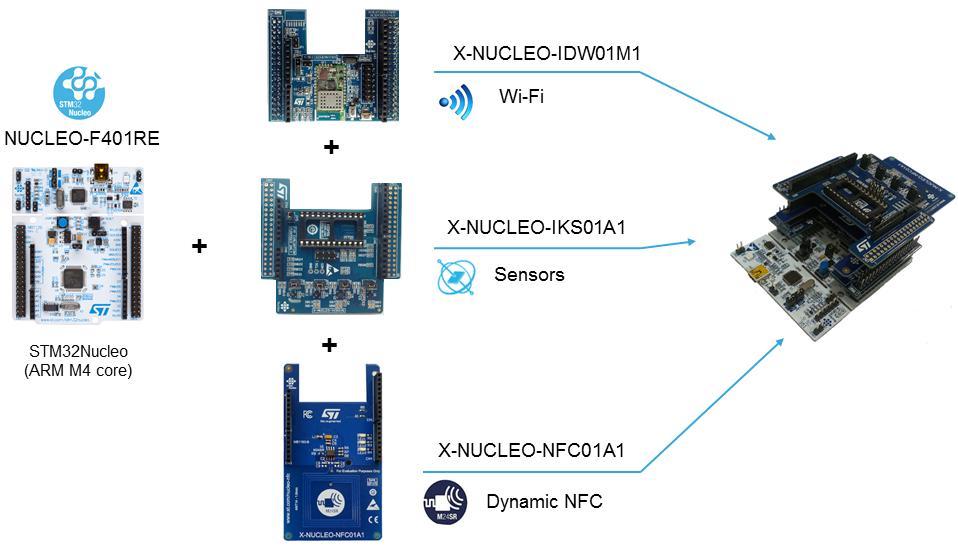
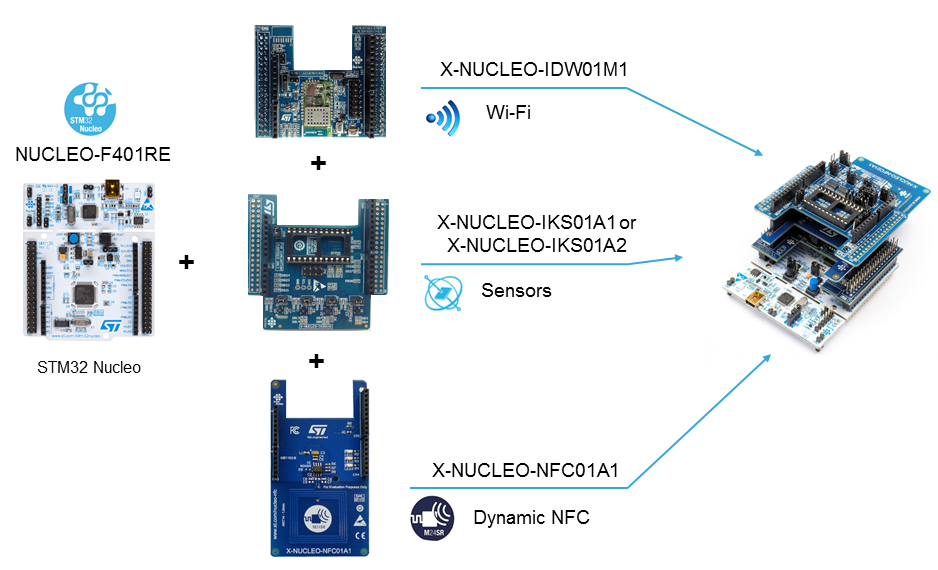
Updated get started for STM32 Nucleo
Updated stm32cube-stm32nucleo-c.md according to latest FW version
available on st.com.

diff --git a/get_started/stm32cube-stm32nucleo-c.md b/get_started/stm32cube-stm32nucleo-c.md
@@ -16,7 +16,6 @@ Run a simple C sample on STM32 Nucleo
 -   [Step 1: Prerequisites](#Prerequisites)
 -   [Step 2: Prepare your Device](#PrepareDevice)
 -   [Step 3: Build and Run the Sample](#Build)
--   [Tips](#tips)
 
 
 <a name="Introduction"></a>
@@ -28,6 +27,7 @@ This document describes how to connect STM32 Nucleo based sensor node to the Mic
 -   Configuring Azure IoT Hub
 -   Registering STM32 Nucleo to Azure IoT Hub
 -   Build and deploy Azure IoT SDK on STM32 Nucleo
+ 
 
 <a name="Prerequisites"></a>
 # Step 1: Prerequisites
@@ -46,18 +46,17 @@ You should have the following items ready before beginning the process.
 ## 1.2 Hardware components
  - STM32 Nucleo development board ([NUCLEO-F401RE][lnk-nucleo-f4])
  - Wi-Fi expansion board for STM32 Nucleo ([X-NUCLEO-IDW01M1][lnk-nucleo-wifi])
- - Motion MEMS and environmental sensor expansion board for STM32 Nucleo ([X-NUCLEO-IKS01A1][lnk-nucleo-sensors])
- - Dynamic NFC tag expansion board for STM32 Nucleo ([X-NUCLEO-NFC01A1][lnk-nucleo-nfc]) 
- - NFC enabled Android phone to set SSID and Password of WiFi access point through a mobile application.
+ - Motion MEMS and environmental sensor expansion board for STM32 Nucleo ([X-NUCLEO-IKS01A1][lnk-nucleo-sensors] or [X-NUCLEO-IKS01A2][lnk-nucleo-sensors2]).
+ - Dynamic NFC tag expansion board for STM32 Nucleo (optional, [X-NUCLEO-NFC01A1][lnk-nucleo-nfc]) 
+ - When the X-NUCLEO-NFC01A1 board is mounted, an NFC enabled Android phone is necessary to set WiFi SSID and Password with a mobile application.
  
 
 <a name="PrepareDevice"></a>
 # Step 2: Prepare your Device
-Combine STM32 Nucleo with its expansion boards as shown in the figure below:
+Combine STM32 Nucleo with expansion boards as shown in the figure below. Then connect the STM32 Nucleo board to your PC using a mini USB cable.
 
 ![][1]
-
-Connect the STM32 Nucleo based sensor node to your PC using a mini USB cable. 
+ 
 
 <a name="Build"></a>
 # Step 3: Build and Run the sample 
@@ -66,45 +65,71 @@ Connect the STM32 Nucleo based sensor node to your PC using a mini USB cable.
 ## 3.1 Build SDK and sample code
 
 1. Download [FP-CLD-AZURE1 Function Pack][lnk-nucleo-fp]. The Function Pack contains all the required drivers to use the STM32 Nucleo board with Wi-Fi, Sensors and NFC expansion boards, together with pre-integrated Microsoft Azure IoT SDK. 
-2. Unzip the package and open one of the pre-configured project files available in ```FP-CLD-AZURE1/Projects/Multi/Applications/HTTPS_AzureSDK_S2C```, according to the IDE installed. In [SystemWorkbench for STM32][lnk-ide-sw4stm32] select the project from menu ```File -> Import -> Existing Projects into Workspace```; browse folders and select as root directory ```FP-CLD-AZURE1/Projects/Multi/Applications/HTTPS_AzureSDK_S2C/SW4STM32/STM32F401RE-Nucleo```
-3. Open  file AzureIOTSDKConfig.h and update AZUREIOTHUBCONNECTIONSTRING with the credentials retrieved when registering the device in IoT Hub as described in [Step 1.1][lnk-setup-iot-hub].
-4. Recompile the project, according to the chosen IDE, and flash the binary to the Nucleo board. In [SystemWorkbench for STM32][lnk-ide-sw4stm32] this can be done simply by clicking on Run button, as shown in picture below. 
-
+2. Unzip the package and open one of the pre-configured project files available in ```AZURE1_F4_V2.0.0/Projects/Multi/Applications/HTTPS_Azure```, according to the IDE installed (for [SystemWorkbench for STM32][lnk-ide-sw4stm32] project files can be found inside folder ```SW4STM32```). In [SystemWorkbench for STM32][lnk-ide-sw4stm32] select the project from menu ```File -> Import -> Existing Projects into Workspace```; browse folders and select as root directory ```AZURE1_F4_V2.0.0/Projects/Multi/Applications/HTTPS_Azure/SW4STM32/STM32F401RE-Nucleo``` then click ```Finish```.
+3. Open  file ```AzureIOTSDKConfig.h``` (inside folder ```AZURE1_F4_V2.0.0/Projects/Multi/Applications/HTTPS_Azure/Inc```) and update ```AZUREIOTHUBCONNECTIONSTRING``` with the credentials retrieved once completed device registration in IoT Hub as described in [Step 1.1][lnk-setup-iot-hub].
+4. Build the project according to the selected IDE. In [SystemWorkbench for STM32][lnk-ide-sw4stm32], select the Build configuration with ```Project -> Build Configurations -> Set Active``` based on the sensors expansion board mounted (see picture below); then select ```Project -> Build All``` (or shortcut ```Ctrl+B```).
 ![][2]
+5. Flash the binary to Nucleo board according to the selected IDE. In [SystemWorkbench for STM32][lnk-ide-sw4stm32] select ```Run -> Run Configurations```; click on ```New launch configuration``` (see below) and select available configuration (X-NUCLEO-IKS01A1 or X-NUCLEO-IKS01A2); then in text box ```C/C++ Applications``` type in ```X-NUCLEO-IKS01A1\STM32F4xx-Nucleo.elf``` or ```X-NUCLEO-IKS01A2\STM32F4xx-Nucleo.elf``` depending on the configuration built; then click on ```Apply``` and ```Run```.
+
+![][5]
+
+![][6]
+
 
 
 ## 3.2 Connect STM32 Nucleo board to a WiFi access point 
-In order to set or to overwrite WiFi access point parameters (SSID and Password), keep pressed USER button in STM32 Nucleo after RESET. If SSID and Password were previously written to NFC, these will be read and used to connect with the Access Point. In order to pass parameters to NFC board, an Android mobile phone equipped with an NFC WriteTag application need to be used (i.e. you can install and use [ST25 application][lnk-android-st25] ). Alternatively WiFi parameters can be configured via Serial Terminal, or directly set in source code by replacing X_CLOUD_SSID, X_CLOUD_KEY in file AzureIOTSDKConfig.h.
-After first setting of WiFi parameters, these are permanently written to FLASH memory and used each time the board is RESET, unless USER button is kept pressed. 
+
+Configure your serial terminal (e.g. [TeraTerm][lnk-teraterm]) with the following parameters to visualize log messages from Nucleo board:
+- BaudRate : 460800
+- Data : 8 bit
+- Parity : none
+- Stop : 1 bit 
+- Flow Control : none
+
+In order to set or to overwrite WiFi access point parameters (SSID and Password), keep pressed USER button in STM32 Nucleo after RESET. 
+
+If NFC board is mounted and if SSID and Password were previously written to NFC with a mobile application (i.e. [ST25 application][lnk-android-st25] for Android can be used), these will be read and used to connect with the Access Point. In order to copy parameters to NFC board, an Android mobile phone equipped with an NFC WriteTag application need to be used. 
+
+Alternatively WiFi parameters can be entered using serial terminal (see below), or directly set in source code by using ```X_CLOUD_SSID```, ```X_CLOUD_KEY``` defines in file ```AzureIOTSDKConfig.h``` (```EMBEDDED_WIFI_PARAMETERS``` has also to be set to 1 in the latter case).
+
+![][7]
+
+After first time WiFi parameters are set, these are permanently written to FLASH memory and used each time the board is RESET, unless USER button is kept pressed (see figure below to use USER or RESET button on STM32 Nucleo). 
 
 ![][3]
 
+LED2 onboard Nucleo is turned on once WiFi has joined AP and connection with Azure IoT Hub is established.  
 
-## 3.3 Send Device Events to IoT Hub:
+![][4]
 
-After connection with a WiFi Access Point, the application contacts Azure IoT Hub using HTTPS protocol and it starts to transmit sample data read from sensor board (motion MEMS, temperature, pressure, humidity). 
+## 3.3 Send Device Events to IoT Hub
 
-See [Manage IoT Hub][lnk-manage-iot-hub] to learn how to observe the messages IoT Hub receives from the simplesample_http application running in STM32 Nucleo.
+Once connected to Azure IoT Hub, the application transmits sample data read from sensor board (motion MEMS, temperature, pressure, humidity) using HTTPS protocol. If neither X-NUCLEO-IKS01A1 or X-NUCLEO-IKS01A2 are mounted, the application will transmit a fixed temperature value to IoTHub.
 
-Messages sent to Azure IoT are also printed in Serial Terminal interface. 
+See [Manage IoT Hub][lnk-manage-iot-hub] to learn how to observe in DeviceExplorer the messages IoT Hub receives from STM32 Nucleo.
+
+Messages sent to Azure IoT are also printed in serial terminal interface. 
 
 
 ## 3.3 Receive messages from IoT Hub
 
-See [Manage IoT Hub][lnk-manage-iot-hub] to learn how to send cloud-to-device messages to the application.
-Messages received by STM32 Nucleo are printed over Serial Terminal interface once received. 
-Green LED2 on Nucleo alternatively turn on/turn off every time a message from Azure IoT Hub is received. 
+See [Manage IoT Hub][lnk-manage-iot-hub] to learn how to send cloud-to-device messages to STM32 Nucleo.
+Messages received by STM32 Nucleo are printed over serial terminal interface once received. 
+Some cloud-to-device messages are also interpreted by the embedded application: 
+- quit : quit application 
+- reset : reset board
+- led on : LED2 onboard Nucleo on
+- led off : LED2 off
+- delay <seconds> : change samples frequency 
 
-![][4]
-
-
-
+A QuickStart guide to setup and run the application can also be downloaded [here][lnk-quickstart-st].
 
 [lnk-setup-iot-hub]: ../setup_iothub.md
 [lnk-manage-iot-hub]: ../manage_iot_hub.md
 [lnk-nucleo-f4]:http://www.st.com/content/st_com/en/products/evaluation-tools/product-evaluation-tools/mcu-eval-tools/stm32-mcu-eval-tools/stm32-mcu-nucleo/nucleo-f401re.html
 [lnk-nucleo-wifi]:http://www.st.com/content/st_com/en/products/ecosystems/stm32-open-development-environment/stm32-nucleo-expansion-boards/stm32-ode-connect-hw/x-nucleo-idw01m1.html
 [lnk-nucleo-sensors]:http://www.st.com/content/st_com/en/products/ecosystems/stm32-open-development-environment/stm32-nucleo-expansion-boards/stm32-ode-sense-hw/x-nucleo-iks01a1.html
+[lnk-nucleo-sensors2]:http://www.st.com/content/st_com/en/products/ecosystems/stm32-open-development-environment/stm32-nucleo-expansion-boards/stm32-ode-sense-hw/x-nucleo-iks01a2.html
 [lnk-nucleo-nfc]:http://www.st.com/content/st_com/en/products/ecosystems/stm32-open-development-environment/stm32-nucleo-expansion-boards/stm32-ode-connect-hw/x-nucleo-nfc01a1.html
 [lnk-nucleo-fp]:http://www.st.com/content/st_com/en/products/embedded-software/mcus-embedded-software/stm32-embedded-software/stm32-ode-function-pack-sw/fp-cld-azure1.html
 [lnk-ide-keil]:http://www.keil.com/
@@ -112,10 +137,14 @@ Green LED2 on Nucleo alternatively turn on/turn off every time a message from Az
 [lnk-ide-sw4stm32]:http://www.openstm32.org/System+Workbench+for+STM32
 [lnk-teraterm]:https://ttssh2.osdn.jp
 [lnk-android-st25]:https://play.google.com/store/apps/details?id=com.st.demo
-
+[lnk-quickstart-st]:http://www.st.com/content/ccc/resource/sales_and_marketing/presentation/product_presentation/group0/1f/8c/03/3b/a4/da/49/b4/FP-CLD-AZURE1%20quick%20start%20guide/files/fp-cld-azure1_quick_start_guide.pdf/jcr:content/translations/en.fp-cld-azure1_quick_start_guide.pdf
 
 [1]: ./media/nucleo1.png
-[2]: ./media/nucleo2.png
+[2]: ./media/nucleo2_setconf.png
 [3]: ./media/nucleo3.png
 [4]: ./media/nucleo4.png
+[5]: ./media/nucleo5_runconf.png
+[6]: ./media/nucleo6_runconfApply.png
+[7]: ./media/nucleo6_teraTerm.png
+
 
